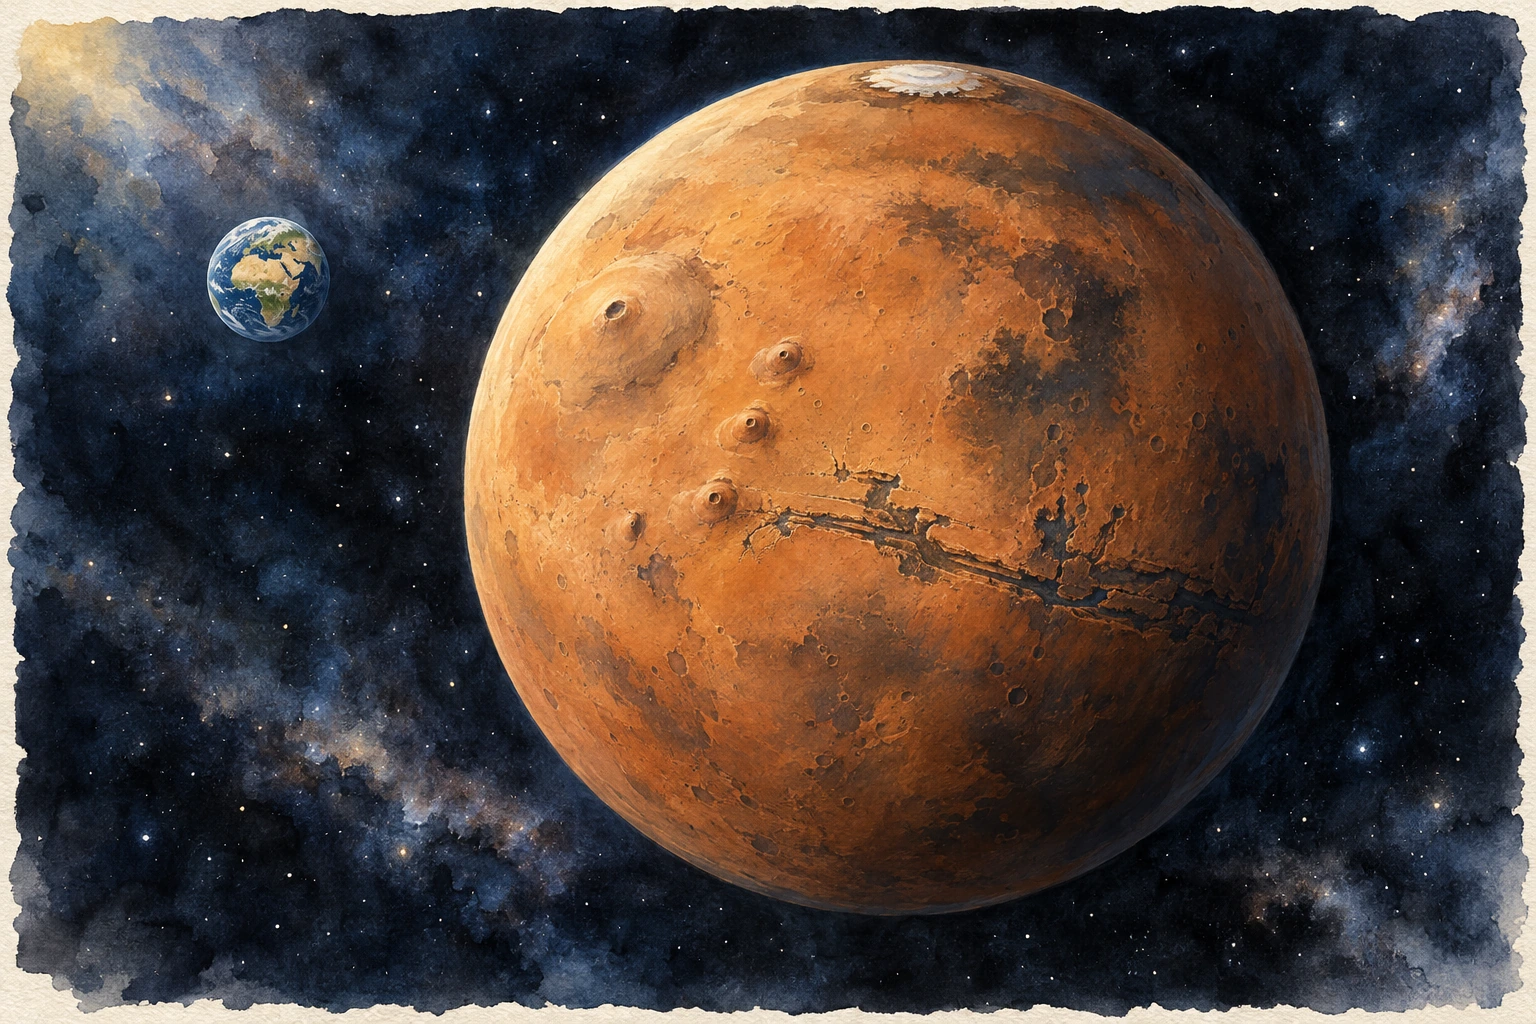
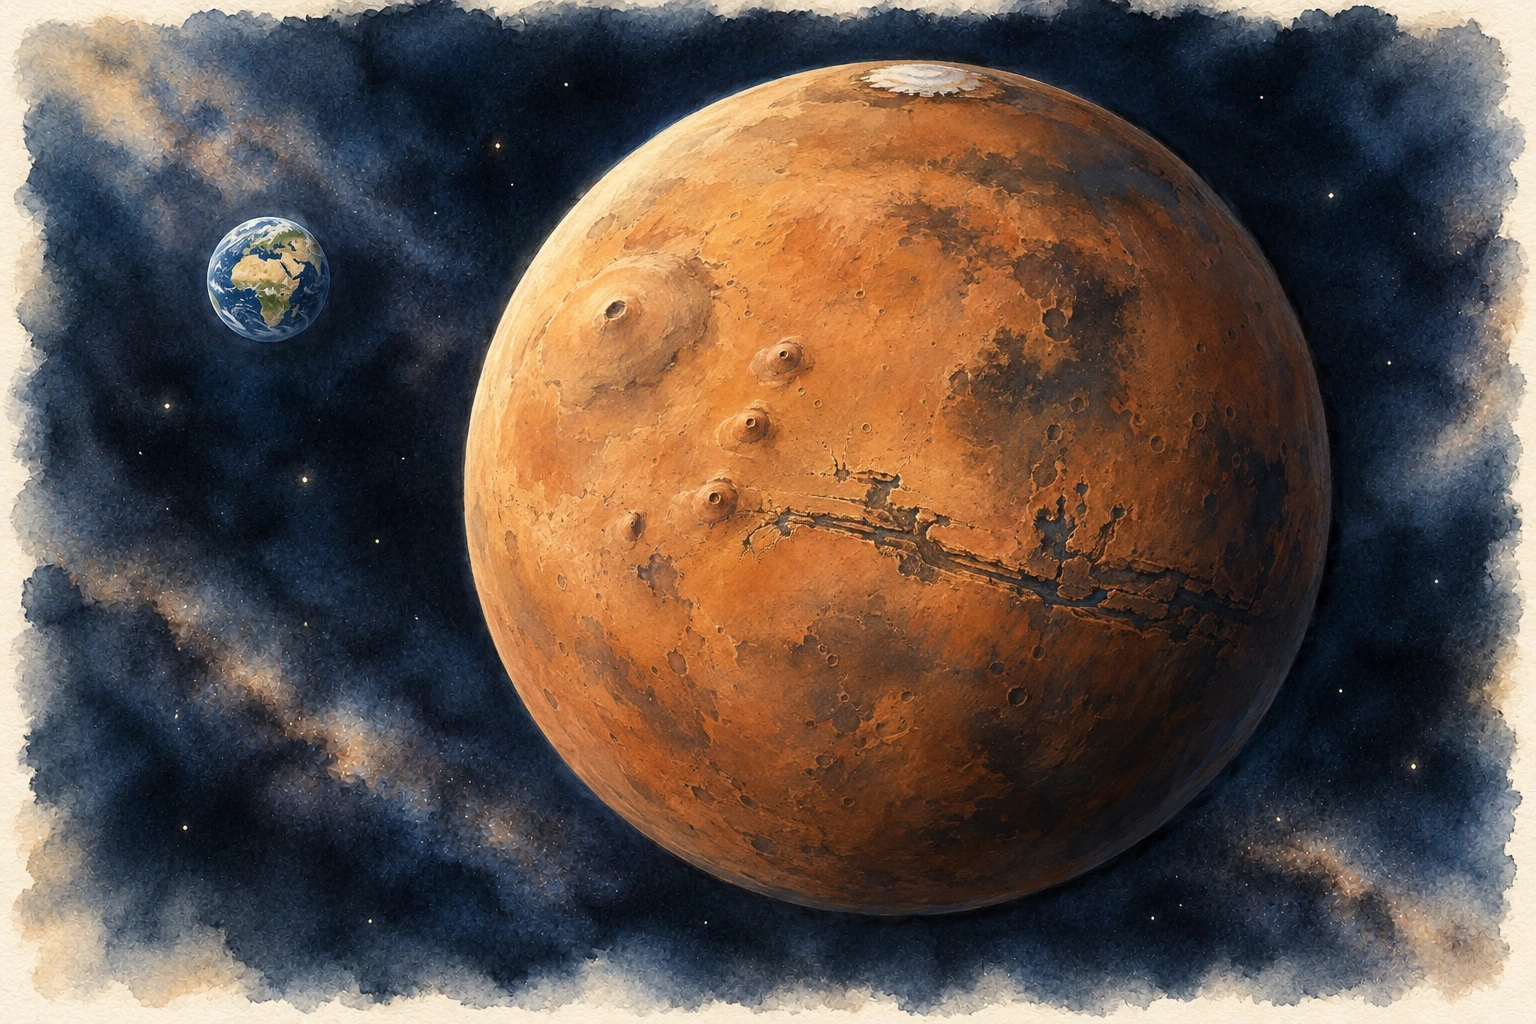
Refresh seven space watercolors and align scene details [skip ci]

Changed region(s): [[0.0, 0.0, 1.0, 1.0], [0.3125, 0.0938, 0.3438, 0.125], [0.25, 0.4688, 0.2812, 0.5]]

diff --git a/pictures/space/index.html b/pictures/space/index.html
@@ -156,10 +156,10 @@ scenes:
     label_x: 16.6
     label_y: 14
     label_edge: right
-    paint_image: /pictures/space/assets/near-venus-watercolor.webp
+    paint_image: /pictures/space/assets/venus-earth-portrait.webp
     paint_width: 3.2
-    paint_position: 69.20% 24.00%
-    paint_zoom: 175% auto
+    paint_position: 50% 50%
+    paint_zoom: 100% auto
   branch: venus
   branch_label: Venus · toward the Sun
 - id: moon
@@ -767,13 +767,14 @@ scenes:
     label_edge: left
     paint_image: /pictures/space/assets/voyager-2-watercolor.webp
     paint_width: 4.2
-    paint_position: 76% 62%
-    paint_zoom: 200% auto
+    paint_position: 74% 57%
+    paint_zoom: 260% auto
 - id: voyager-2
   name: Near Voyager 2
   image: /pictures/space/assets/voyager-2-watercolor.webp
-  alt: Voyager 2 alone in a wide field of dark watercolor space, its pale dish and slender booms surrounded by
-    distant stars. A small Arrokoth portrait offers a return to the Kuiper Belt.
+  alt: Voyager 2 seen obliquely from the front and slightly below, its pale dish facing upper left above a dark
+    equipment body. Three finned power units and slender booms extend into indigo watercolor space. A small
+    Arrokoth portrait offers a return to the Kuiper Belt.
   caption: Voyager 2. Beyond Neptune, its route turned south of the planets’ orbital plane. Continue into deep space.
   back: kuiper-belt
   back_label: The Kuiper Belt
@@ -781,13 +782,13 @@ scenes:
   next_label: Deep space
   spots:
   - label: Voyager 2
-    x: 61
-    y: 40
+    x: 64.1
+    y: 47
     detail: voyager-2
     primary: true
   - label: Deep space
-    x: 20
-    y: 44
+    x: 85
+    y: 14
     detail: voyager-distance
     go: deep-space
     width: 12
@@ -842,8 +843,8 @@ scenes:
     label_edge: right
     paint_image: /pictures/space/assets/voyager-2-watercolor.webp
     paint_width: 4.8
-    paint_position: 76% 62%
-    paint_zoom: 200% auto
+    paint_position: 74% 57%
+    paint_zoom: 260% auto
   - label: Voyager 1
     x: 85
     y: 20
@@ -857,14 +858,14 @@ scenes:
     label_edge: left
     paint_image: /pictures/space/assets/voyager-1-watercolor.webp
     paint_width: 4.8
-    paint_position: 80% 62%
-    paint_zoom: 200% auto
+    paint_position: 56% 40%
+    paint_zoom: 260% auto
 - id: voyager-1
   name: Near Voyager 1
   image: /pictures/space/assets/voyager-1-watercolor.webp
-  alt: Voyager 1 alone at right in deep watercolor space, with a broad pale dish, dark equipment body,
-    small gold record cover and slender instrument booms. The space to its left is empty of other craft. A small
-    Earth portrait at upper right leads back home.
+  alt: Voyager 1 seen from behind and above, with the rear of its pale dish facing the viewer and its open side
+    turned toward upper right. A gold record cover sits on the dark equipment body, three finned power units
+    extend right and the camera platform extends left. A small Earth portrait at upper right leads back home.
   caption: Voyager 1. Explore the message it carries and the story of Pale Blue Dot, then return to Earth.
   back: deep-space
   back_label: Deep space
@@ -872,32 +873,33 @@ scenes:
   next_label: Earth
   spots:
   - label: Voyager 1
-    x: 64
-    y: 40
+    x: 56.3
+    y: 36.6
     detail: voyager-1
     primary: true
-    hint_y: -20
+    hint_y: -15
   - label: Golden Record
-    x: 57.4
-    y: 57.4
+    x: 53
+    y: 48.8
     detail: golden-record
-    label_side: right
-    label_gap: 1.5
-    hint_x: 15
-    hint_y: 15
+    label_edge: left
+    hint_x: 0
+    hint_y: 25
   - label: Pale Blue Dot
-    x: 90
-    y: 45
+    x: 39
+    y: 40.5
     detail: pale-blue-dot
     label_edge: left
   - label: Power source
-    x: 49.2
-    y: 66
+    x: 64.1
+    y: 53
     detail: voyager-power
-    hint_x: -10
+    label_side: right
+    label_gap: 2
+    hint_y: 15
   - label: Deep space
-    x: 18
-    y: 40
+    x: 15
+    y: 14
     detail: voyager-distance
     go: deep-space
     width: 12
@@ -920,7 +922,7 @@ scenes:
 - id: venus
   name: Near Venus
   image: /pictures/space/assets/near-venus-watercolor.webp
-  alt: A pale cream watercolor Venus covered by sweeping opaque clouds, with its right limb in shadow. A small Magellan
+  alt: A pale cream watercolor Venus covered by sweeping opaque clouds, lit from the upper right with its left limb in shadow. A small Magellan
     spacecraft to the left has a dish antenna, a golden body and two gray-blue solar panels. A small blue Earth
     at upper left offers a return, and gray Mercury at upper right leads closer to the Sun.
   caption: Near Venus. Explore the clouds and Magellan, continue inward to Mercury, or return to Earth.
@@ -947,8 +949,9 @@ scenes:
     primary: false
     hint_y: 5
   - label: Phases
-    x: 78
-    y: 53
+    x: 37
+    y: 45
+    label_edge: left
     detail: venus-phases
     primary: false
   - label: Magellan
@@ -2013,7 +2016,7 @@ details:
   image: /pictures/space/assets/near-venus-watercolor.webp
   position: 69.20% 24.00%
   zoom: 175% auto
-  alt: Venus’s pale opaque cloud cover with its right limb in shadow.
+  alt: Venus’s pale opaque cloud cover with its left limb in shadow.
 - id: venus-clouds
   label: Acid clouds
   kicker: Venus · Atmosphere
@@ -2052,7 +2055,7 @@ details:
   image: /pictures/space/assets/near-venus-watercolor.webp
   position: 58.40% 81.40%
   zoom: 260% auto
-  alt: The lower part of Venus’s cloud-covered globe, with light fading toward the right.
+  alt: The lower part of Venus’s cloud-covered globe, with light fading toward the left.
 - id: venus-phases
   label: Phases
   kicker: Venus · Galileo’s telescope
@@ -2069,9 +2072,9 @@ details:
   sources:
   - venus-phases-history
   image: /pictures/space/assets/near-venus-watercolor.webp
-  position: 85.47% 51.19%
+  position: 31% 40%
   zoom: 300% auto
-  alt: Venus’s cloudy right limb fading from pale reflected sunlight into shadow.
+  alt: Venus’s cloudy left limb fading from pale reflected sunlight into shadow.
 - id: magellan
   label: Magellan
   kicker: Venus · Radar exploration
@@ -2361,9 +2364,9 @@ details:
   - voyager-routes
   - voyager-hardware
   image: /pictures/space/assets/voyager-1-watercolor.webp
-  position: 81% 55%
-  zoom: 180% auto
-  alt: Voyager 1’s pale dish above its dark equipment body and instrument boom.
+  position: 56% 40%
+  zoom: 260% auto
+  alt: The rear of Voyager 1’s pale dish above its dark equipment body, with the camera platform at left.
 - id: voyager-2
   label: Voyager 2
   kicker: The longer planetary tour
@@ -2382,9 +2385,9 @@ details:
   - voyager-2
   - voyager-routes
   image: /pictures/space/assets/voyager-2-watercolor.webp
-  position: 75% 55%
-  zoom: 180% auto
-  alt: Voyager 2 alone, with its dish and long instrument booms.
+  position: 74% 57%
+  zoom: 260% auto
+  alt: Voyager 2’s tilted pale dish, dark equipment body and instrument platform, seen from the front and below.
 - id: heliopause
   label: Beyond the solar wind
   kicker: A boundary in the surrounding particles
@@ -2438,9 +2441,9 @@ details:
   - record-cover
   - sagan-newman
   image: /pictures/space/assets/voyager-1-watercolor.webp
-  position: 59.12% 59.87%
-  zoom: 600% auto
-  alt: A small gold circle on the left-facing side of Voyager’s dark equipment body.
+  position: 53.6% 48.4%
+  zoom: 1000% auto
+  alt: The small circular gold record cover on a visible face of Voyager 1’s dark equipment body.
 - id: voyager-power
   label: Power source
   kicker: Electricity far from the Sun
@@ -2457,9 +2460,9 @@ details:
   - voyager-hardware
   - voyager-model
   image: /pictures/space/assets/voyager-1-watercolor.webp
-  position: 48.98% 70.83%
-  zoom: 600% auto
-  alt: Three finned power units mounted along Voyager’s short downward-left boom.
+  position: 67% 54%
+  zoom: 700% auto
+  alt: Three finned power units arranged end to end along Voyager 1’s short rightward boom.
 - id: pale-blue-dot
   label: Pale Blue Dot
   kicker: Voyager 1 looks back
@@ -2477,9 +2480,9 @@ details:
   sources:
   - pale-blue-dot
   image: /pictures/space/assets/voyager-1-watercolor.webp
-  position: 100% 48%
-  zoom: 350% auto
-  alt: The instrument assembly at the end of Voyager 1’s boom, which carried its cameras.
+  position: 37% 37%
+  zoom: 600% auto
+  alt: The camera apertures on the instrument platform at the end of Voyager 1’s leftward science boom.
   link: https://science.nasa.gov/mission/voyager/voyager-1s-pale-blue-dot/
   link_label: See Pale Blue Dot at NASA
 - id: voyager-distance
